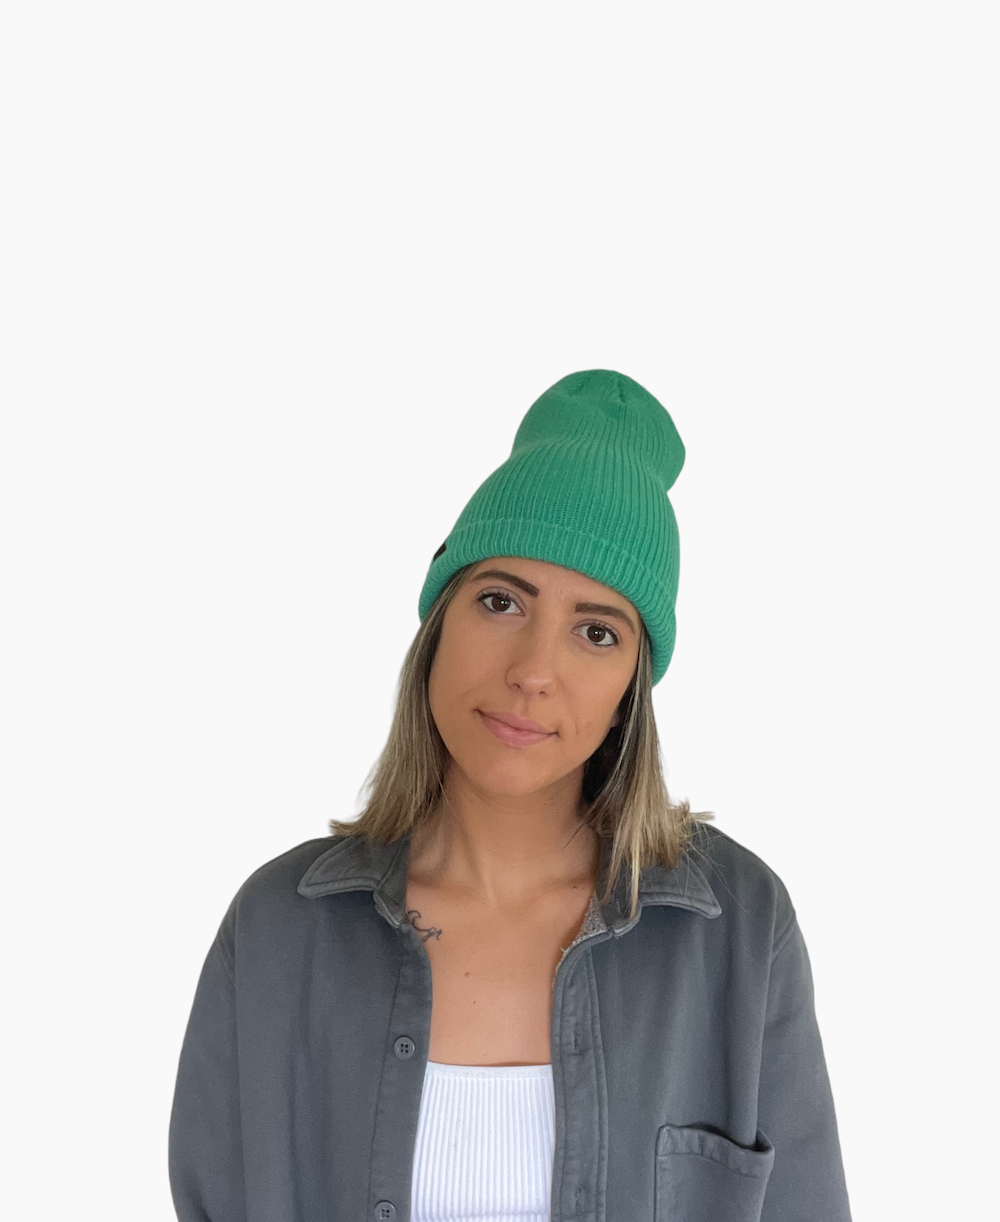
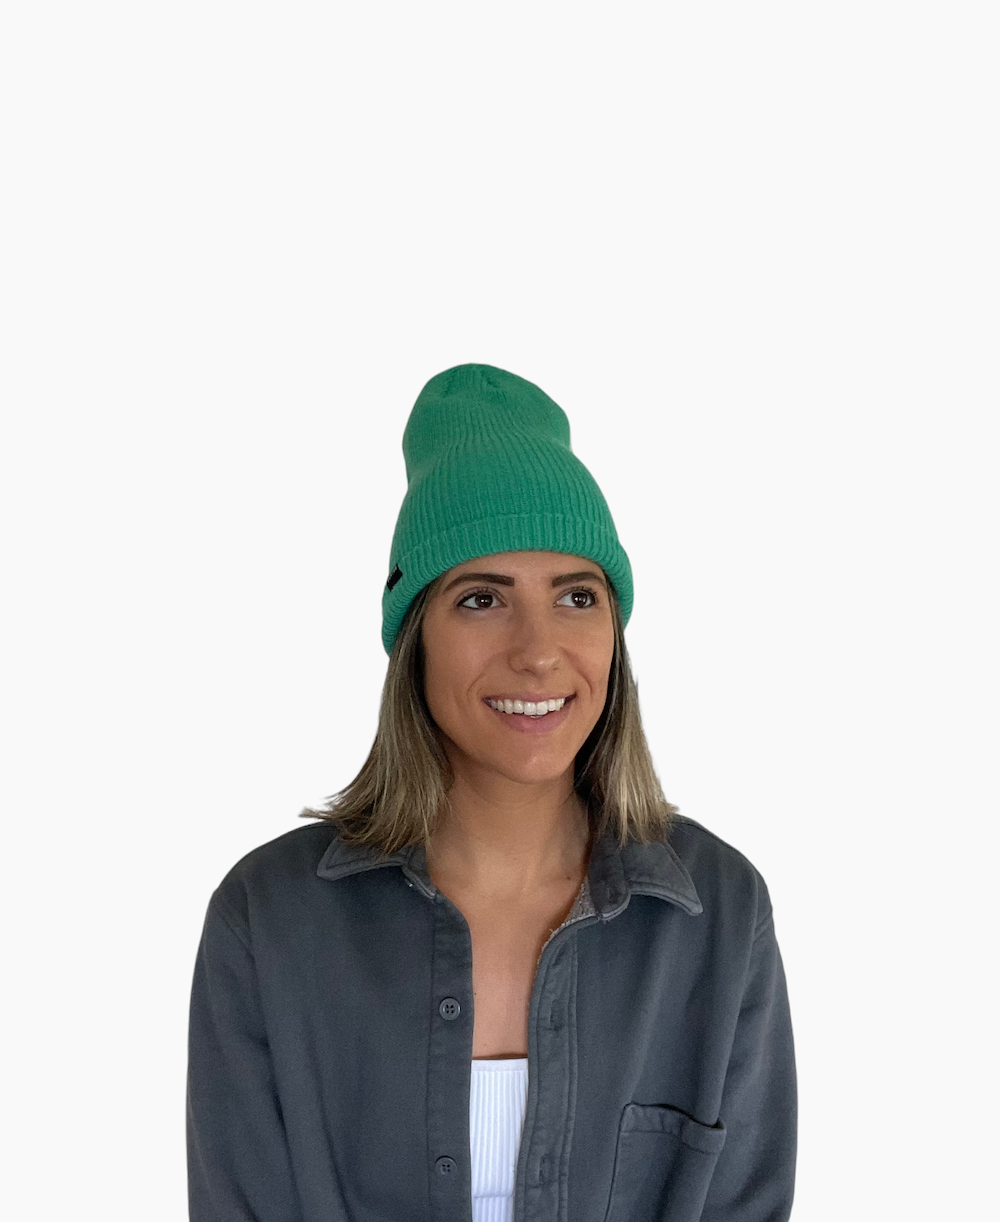
about page done

Changed region(s): [[0.155, 0.2799, 0.868, 1.0]]

diff --git a/assets/styles/main.css b/assets/styles/main.css
@@ -9,7 +9,7 @@
 
 body {
   margin: 0;
-  background-color: #eeedeb;
+  background-color: white;
 }
 
 .container {
@@ -188,6 +188,10 @@ p {
   color: #eeedeb;
 }
 
+.home .top-statement h2 {
+  white-space: nowrap;
+}
+
 .home__main-content .wrapper {
   -webkit-box-align: center;
       -ms-flex-align: center;
@@ -249,7 +253,7 @@ p {
 }
 
 #projects {
-  background-color: #eeedeb;
+  background-color: white;
 }
 
 .nav {
@@ -423,7 +427,7 @@ p {
 }
 
 .about-section {
-  background-color: white;
+  background-color: #f5f5f5;
   padding: 0px;
 }
 
@@ -454,6 +458,7 @@ p {
   -ms-grid-columns: 1fr;
       grid-template-columns: 1fr;
   width: 100%;
+  padding-bottom: 60px;
 }
 
 @media screen and (min-width: 768px) {
@@ -476,6 +481,20 @@ p {
   margin-top: 5px;
 }
 
+@media screen and (min-width: 768px) {
+  .about__column:nth-child(1) {
+    -ms-grid-columns: 1fr 1fr;
+        grid-template-columns: 1fr 1fr;
+  }
+}
+
+@media screen and (min-width: 992px) {
+  .about__column:nth-child(1) {
+    -ms-grid-columns: 1fr 1fr 1fr;
+        grid-template-columns: 1fr 1fr 1fr;
+  }
+}
+
 .about__column:nth-child(1) img {
   border: 2px solid #f5f5f5;
   max-width: 100%;
@@ -491,6 +510,10 @@ p {
       -ms-flex-align: center;
           align-items: center;
   text-align: left;
+}
+
+.about a {
+  color: #4db28e;
 }
 
 .swiper-slide img {
@@ -518,7 +541,7 @@ p {
 .swiper-all-projects .swiper-slide {
   text-align: center;
   font-size: 18px;
-  background-color: #eeedeb;
+  background-color: white;
   display: -webkit-box;
   display: -ms-flexbox;
   display: flex;
@@ -549,6 +572,38 @@ p {
   }
 }
 
+.swiper-about .swiper-wrapper {
+  display: -webkit-box !important;
+  display: -ms-flexbox !important;
+  display: flex !important;
+  -webkit-box-align: center !important;
+      -ms-flex-align: center !important;
+          align-items: center !important;
+}
+
+.swiper-about .swiper-slide {
+  text-align: center;
+  font-size: 18px;
+  background: #fff;
+  display: -webkit-box;
+  display: -ms-flexbox;
+  display: flex;
+  -webkit-box-pack: center;
+      -ms-flex-pack: center;
+          justify-content: center;
+  -webkit-box-align: center;
+      -ms-flex-align: center;
+          align-items: center;
+}
+
+.swiper-about .swiper-slide img {
+  display: block;
+  width: 100%;
+  height: 100%;
+  -o-object-fit: cover;
+     object-fit: cover;
+}
+
 .marquee {
   height: 150px;
   overflow: hidden;
@@ -570,7 +625,7 @@ p {
   -webkit-animation: scroll-left 1s linear infinite;
   animation: scroll-left 15s linear infinite;
   color: #4db28e;
-  -webkit-text-fill-color: #eeedeb;
+  -webkit-text-fill-color: white;
   /* Will override color (regardless of order) */
   -webkit-text-stroke-width: 4px;
   -webkit-text-stroke-color: #4db28e;

diff --git a/about.html b/about.html
@@ -21,7 +21,7 @@
   <body>
     <section class="topbar__back container">
       <div class="container__inner">
-        <a href="../portfolio/home.html#projects">
+        <a href="../portfolio/home.html">
           <img
             class="back-arrow"
             src="assets/images/arrow-left-solid.svg"
@@ -63,22 +63,32 @@
         />
       </div>
       <div class="about__column">
-        <main>
-          <h2>Get to know me!</h2>
+        <div>
+          <h1>Get to know me!</h1>
           <p>
             I'm an innovative problem-solver, passionate about developing
             websites to best engage users for an impactful experience. As a
             self-motivated professional, I successfully code, and build clean,
-            responsive websites. 
-            <p>I also:</p> 
-            <p>Dabble in design</p> 
-            <p>Take photos for websites or google business accounts</p> 
-            <p>Offer personal / business enhancement through site revamps, google rankings, and advise on seo
-            practices as well.</p>
+            responsive websites. I also dabble in design, take photos for websites or google business accounts, offer personal / business enhancement through site revamps, enhanced google rankings, and seo practices as well.</p>
+            <p>I would love to connect!</p>
+            <h2>Find me on <a href="https://www.linkedin.com/in/alexandra-hionis/" target="_blank">LinkedIn</a></h2>
+            <h2>Find me on <a href="https://www.upwork.com/freelancers/~01f4c77eb5abe7904e" target="_blank">Upwork</a></h2>
           </p>
-        </main>
+        </div>
       </div>
     </section>
+     <!-- Contact -->
+  <section class="contact">
+    <h1>Contact</h1>
+    <hr size="2" color="black" />
+    <h2>Have a question or want to work together?</h2>
+    <p> Please feel free to reach out! You can find me on Upwork for any Freelance request. 
+      <br>You can also reach out via email. I typically respond within 24 hours.</p>
+      <a href="mailto:alexandra.hionis@gmail.com"><div class="contact__info">
+      <img src="assets/images/envelope-regular.svg" alt="envelope icon"/>
+     <p>LET'S CONNECT</a>
+  </section>
+
     <!-- Swiper -->
     <script src="https://cdn.jsdelivr.net/npm/swiper@8/swiper-bundle.min.js"></script>
     <!-- Animate on scroll -->
@@ -86,6 +96,7 @@
     <script>
       AOS.init();
     </script>
+    <script type="text/javascript" src="assets/js/footer.js"></script>
     <script type="text/javascript" src="assets/js/nav.js"></script>
     <script type="text/javascript" src="assets/js/swiper.js"></script>
     <script type="text/javascript" src="assets/js/dataProjects.js"></script>

diff --git a/assets/styles/_about.scss b/assets/styles/_about.scss
@@ -1,6 +1,6 @@
 // about section on home page
 .about-section {
-  background-color: white;
+  background-color: $gray-bg;
   padding: 0px;
   @media screen and (min-width: $tablet) {
     padding: 10px 20px;
@@ -21,6 +21,7 @@
   display: grid;
   grid-template-columns: 1fr;
   width: 100%;
+  padding-bottom: 60px;
   @media screen and (min-width: $tablet) {
     grid-template-columns: 1fr 1fr;
   }
@@ -31,6 +32,12 @@
     align-items: stretch;
     justify-items: stretch;
     margin-top: 5px;
+    @media screen and (min-width: $tablet) {
+      grid-template-columns: 1fr 1fr;
+    }
+    @media screen and (min-width: $desktop) {
+      grid-template-columns: 1fr 1fr 1fr;
+    }
   }
   &__column:nth-child(1) img {
     border: 2px solid $gray-bg;
@@ -43,5 +50,8 @@
     margin: 0 auto;
     align-items: center;
     text-align: left;
+  }
+  a {
+    color: $green;
   }
 }

diff --git a/home.html b/home.html
@@ -62,7 +62,7 @@
               <div class="self-portrait-container">
                 <img
                   id="self-portrait"
-                  src="assets/images/alex-selfie.png"
+                  src="assets/images/selfie.png"
                   alt="image of alexandra hionis"
                 />
               </div>
@@ -145,8 +145,8 @@
     align-items: center;"><h1>projects</h1><hr size="5" color="black" /></div>
     <!-- Swiper -->
   <div class="swiper swiper-all-projects">
-    <div class="swiper-wrapper">
-   
+    <div class="swiper-wrapper swiper-projects">
+      <!-- dynamic slides load here -->
     </div>
     <div class="swiper-button-next"></div>
     <div class="swiper-button-prev"></div>

diff --git a/assets/styles/_swiper.scss b/assets/styles/_swiper.scss
@@ -19,7 +19,7 @@
   .swiper-slide {
     text-align: center;
     font-size: 18px;
-    background-color: $ivory;
+    background-color: white;
     display: flex;
     flex-direction: column;
     justify-content: center;
@@ -35,5 +35,27 @@
       width: 80%;
       height: 80%;
     }
+  }
+}
+
+.swiper-about {
+  .swiper-wrapper {
+    display: flex !important;
+    align-items: center !important;
+  }
+  .swiper-slide {
+    text-align: center;
+    font-size: 18px;
+    background: #fff;
+    display: flex;
+    justify-content: center;
+    align-items: center;
+  }
+
+  .swiper-slide img {
+    display: block;
+    width: 100%;
+    height: 100%;
+    object-fit: cover;
   }
 }

diff --git a/assets/styles/_marquee.scss b/assets/styles/_marquee.scss
@@ -20,11 +20,11 @@
   -moz-animation: scroll-left 1s linear infinite;
   -webkit-animation: scroll-left 1s linear infinite;
   animation: scroll-left 15s linear infinite;
-  color: $green-bg;
+  color: $green;
   // hallow it out
-  -webkit-text-fill-color: $ivory; /* Will override color (regardless of order) */
+  -webkit-text-fill-color: white; /* Will override color (regardless of order) */
   -webkit-text-stroke-width: 4px;
-  -webkit-text-stroke-color: $green-bg;
+  -webkit-text-stroke-color: $green;
   font-weight: 600;
   font-size: 66px;
   @media screen and (min-width: $tablet) {

diff --git a/assets/styles/_home.scss b/assets/styles/_home.scss
@@ -11,7 +11,7 @@
     background-color: $light-gray-bg;
   }
   &__main-column:nth-child(2) {
-    background-color: $green-bg;
+    background-color: $green;
   }
   .top-statement {
     display: flex;
@@ -19,6 +19,9 @@
     justify-content: space-between;
     div:nth-child(2) h2 {
       color: $ivory;
+    }
+    h2 {
+      white-space: nowrap;
     }
   }
   &__main-content {
@@ -73,5 +76,5 @@
 }
 
 #projects {
-  background-color: $ivory;
+  background-color: white;
 }

diff --git a/assets/styles/_global.scss b/assets/styles/_global.scss
@@ -5,7 +5,7 @@ $dm-sans: "DM Sans", sans-serif;
 
 // Colors
 $light-gray-bg: #f5f5f5;
-$green-bg: #4db28e;
+$green: #4db28e;
 $ivory: #eeedeb;
 $gray-bg: #f5f5f5;
 $sunnyd-seltzers-blue: #25aae0;
@@ -21,7 +21,8 @@ $litoplas-blue: #25aae0;
 }
 body {
   margin: 0;
-  background-color: $ivory;
+
+  background-color: white;
 }
 .container {
   width: 100%;

diff --git a/assets/js/swiper.js b/assets/js/swiper.js
@@ -14,3 +14,14 @@ var swiper = new Swiper(".swiper-all-projects", {
     },
   },
 });
+
+// About swiper
+var swiper = new Swiper(".swiper-about", {
+  slidesPerView: 4,
+  spaceBetween: 30,
+  centeredSlides: true,
+  navigation: {
+    nextEl: ".swiper-button-next",
+    prevEl: ".swiper-button-prev",
+  },
+});

diff --git a/assets/js/dataProjects.js b/assets/js/dataProjects.js
@@ -47,7 +47,7 @@ const projects = [
 ];
 
 for (var i = 0; i < projects.length; i++) {
-  document.querySelector(".swiper-wrapper").innerHTML += `
+  document.querySelector(".swiper-projects").innerHTML += `
 <div class="swiper-slide">
     <img src="${projects[i].imgSrc}" alt="${projects[i].alt}"> 
     <div>

diff --git a/assets/styles/_footer.scss b/assets/styles/_footer.scss
@@ -20,12 +20,12 @@
 }
 
 .custom-shape-divider-bottom-1684365769 .shape-fill {
-  fill: $green-bg;
+  fill: $green;
 }
 
 .footer {
   margin-top: 110px;
-  background-color: $green-bg;
+  background-color: $green;
 }
 
 .title-word {

diff --git a/sunnyd-cocktails.html b/sunnyd-cocktails.html
@@ -93,6 +93,7 @@
         </section>
       </div>
     </section>
+
     <!-- Swiper -->
     <script src="https://cdn.jsdelivr.net/npm/swiper@8/swiper-bundle.min.js"></script>
     <!-- Animate on scroll -->
